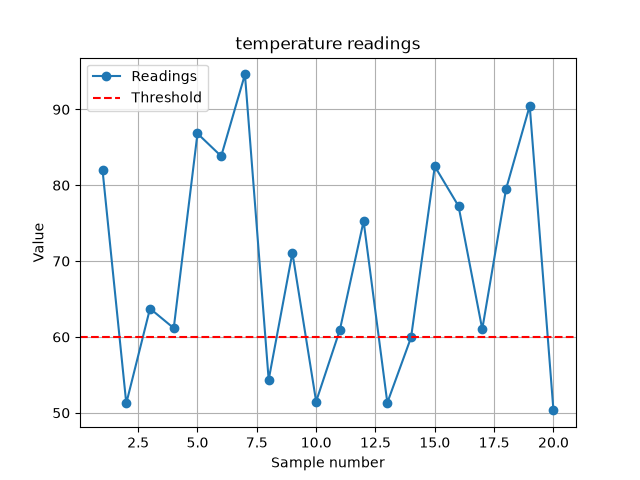
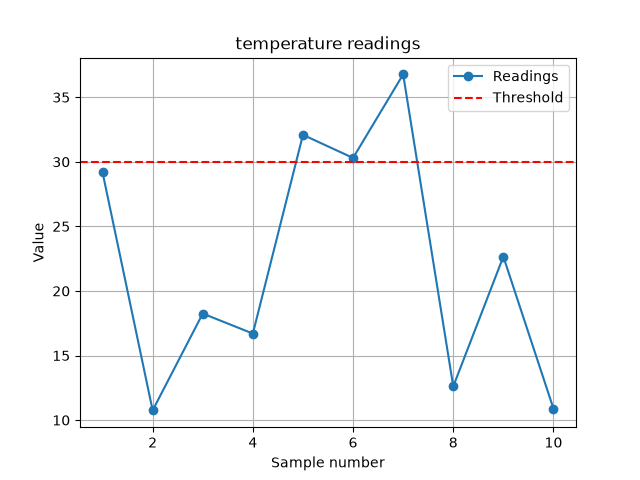
Add choice between generating and loading CSV data

diff --git a/sensor_monitor.py b/sensor_monitor.py
@@ -99,19 +99,63 @@ def save_readings(readings, filename):
     except OSError as error:
         print(f"\nError: could not save {filename}: {error}")
 
+def ask_choice():
+    print("\n1) Generate new readings")
+    print("2) Load readings from a CSV file")
+    while True:
+        choice = input("Choose 1 or 2: ")
+        if choice in ("1", "2"):
+            return choice
+        print("Please enter 1 or 2.")
+
+def load_readings(filename):
+    try:
+        with open(filename, "r") as file:
+            reader = csv.reader(file)
+            next(reader)
+            readings = []
+            for row in reader:
+                readings.append(float(row[1]))
+    except FileNotFoundError:
+        print(f"Error: the file '{filename}' does not exist.")
+        return None
+    except (ValueError, IndexError):
+        print(f"Error: '{filename}' contains invalid data.")
+        return None
+
+    if len(readings) == 0:
+        print(f"Error: '{filename}' contains no readings.")
+        return None
+
+    print(f"Loaded {len(readings)} readings from {filename}")
+    return np.array(readings)
+
 def main():
     print("=== Sensor Data Analysis Tool ===")
-    settings = get_input()
-    readings = generate_readings(
-        settings["count"], settings["min_value"], settings["max_value"]
-    )
-    save_readings(readings, CSV_FILE)
+    choice = ask_choice()
 
-    threshold = settings["threshold"]
+    if choice == "1":
+        settings = get_input()
+        readings = generate_readings(
+            settings["count"], settings["min_value"], settings["max_value"]
+        )
+        save_readings(readings, CSV_FILE)
+        sensor_type = settings["sensor_type"]
+        threshold = settings["threshold"]
+    else:
+        filename = input(f"CSV file name (Enter = {CSV_FILE}): ")
+        if filename == "":
+            filename = CSV_FILE
+        readings = load_readings(filename)
+        if readings is None:
+            return
+        sensor_type = input("Sensor type (temperature, light): ")
+        threshold = ask_float("Threshold value: ")
+
     stats = calculate_statistics(readings, threshold)
     outliers = find_outliers(readings, threshold)
 
-    print(f"\n--- Statistics for {settings['sensor_type']} ---")
+    print(f"\n--- Statistics for {sensor_type} ---")
     print(f"Number of readings : {stats['count']}")
     print(f"Mean               : {stats['mean']:.2f}")
     print(f"Minimum            : {stats['min']:.2f}")
@@ -123,8 +167,8 @@ def main():
     for i in outliers:
         print(f"  Sample {i + 1}: {readings[i]:.2f}")
 
-    plot_readings(readings, threshold, settings["sensor_type"])
-    plot_histogram(readings, settings["sensor_type"])
+    plot_readings(readings, threshold, sensor_type)
+    plot_histogram(readings, sensor_type)
     plt.show()
 
 
